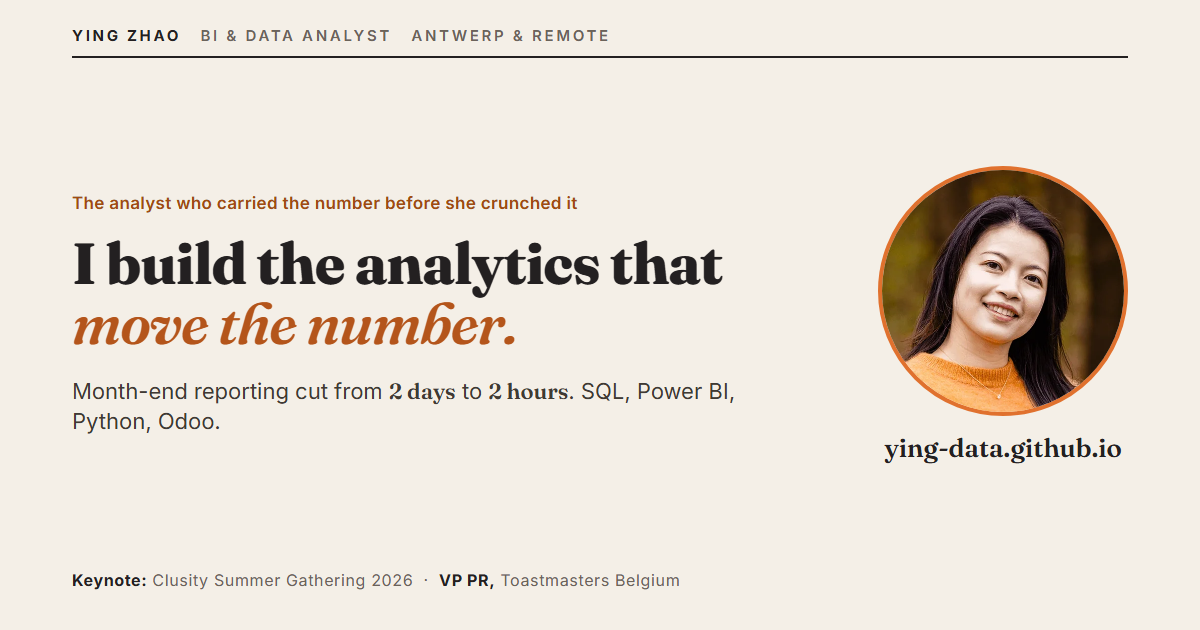
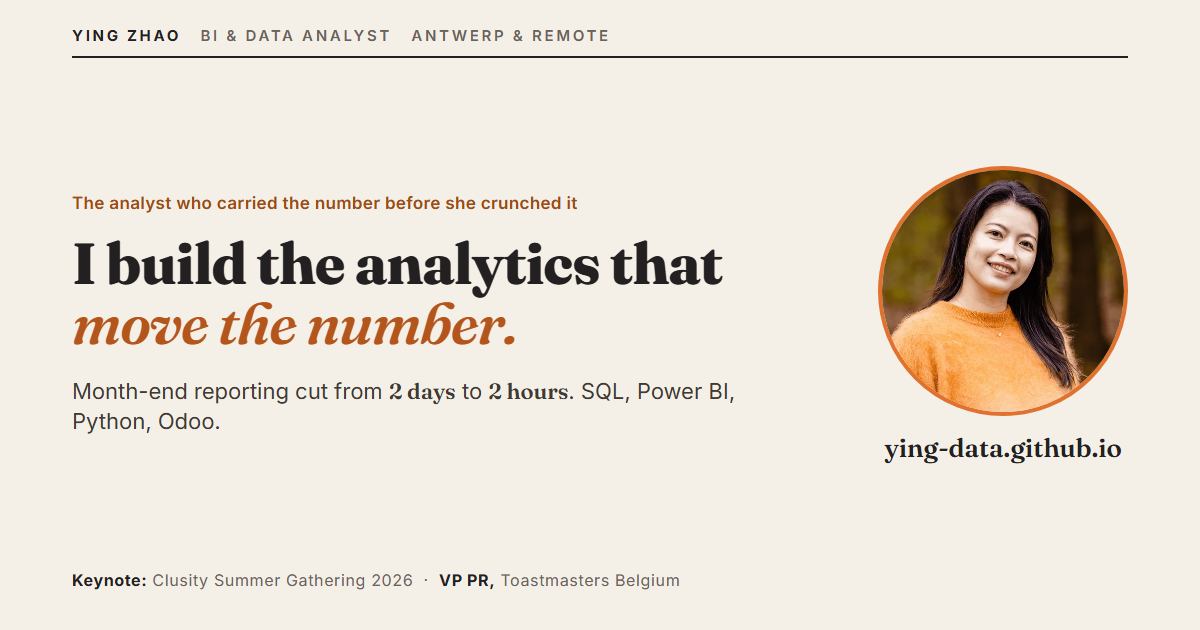
Make work and speaking strips auto-scroll regardless of OS reduced-motion; widen hero portrait to show upper body

Changed region(s): [[0.7092, 0.2714, 0.9558, 0.6635]]

diff --git a/index.html b/index.html
@@ -987,12 +987,16 @@ var ANALYTICS_GOATCOUNTER = "";
 
   /* auto-drift: the strip advances by itself; touching, dragging, scrolling or focusing
      hands control back to the visitor, then it quietly resumes. It reads left to right,
-     pauses at the end, glides back and starts again. Reduced motion never auto-moves.
-     Note: it does NOT pause on hover. On a desktop the cursor naturally rests over the
-     strip, and pausing on hover froze it there (it only ran on touch devices). Only a
-     real interaction pauses it. */
+     pauses at the end, glides back and starts again.
+     It deliberately does NOT gate on prefers-reduced-motion. This is an owner-requested
+     feature, the drift is slow, it pauses on any real interaction, and the strip is fully
+     manually scrollable, so no content is trapped behind the motion. (Reduced-motion was
+     the real reason it looked dead on desktop: that OS setting dropped the whole motion
+     layer, so the drift never started, while phones without the setting worked.)
+     It also does NOT pause on hover: on desktop the cursor rests over the strip, and a
+     hover-pause froze it there. Only a real interaction pauses it. */
   function autoDrift(el, speed){
-    if(!el || !motion) return;
+    if(!el) return;
     var pausedUntil = 0, dir = 1, visible = true, last = null;
     function hold(ms){ pausedUntil = Math.max(pausedUntil, performance.now() + ms); }
     ['pointerdown','wheel','touchstart','focusin','keydown'].forEach(function(ev){
@@ -1012,7 +1016,11 @@ var ANALYTICS_GOATCOUNTER = "";
       if(last === null) last = t;
       var dt = Math.min(120, t - last); last = t;
       var max = el.scrollWidth - el.clientWidth;
-      if(visible && !document.hidden && max > 10 && t > pausedUntil){
+      /* gated only on: the strip is on-screen, it overflows, and the visitor is not
+         mid-interaction. Deliberately NOT gated on document.hidden: a backgrounded tab
+         would freeze it, and that adds nothing for a slow marquee (the browser throttles
+         background timers anyway) while making the behaviour hard to reason about. */
+      if(visible && max > 10 && t > pausedUntil){
         if(pos === null || Math.abs(el.scrollLeft - pos) > 2) pos = el.scrollLeft; /* adopt manual scrolls */
         pos += dir * (dir > 0 ? speed : speed * 2.5) * dt / 1000;
         pos = Math.max(0, Math.min(max, pos));
